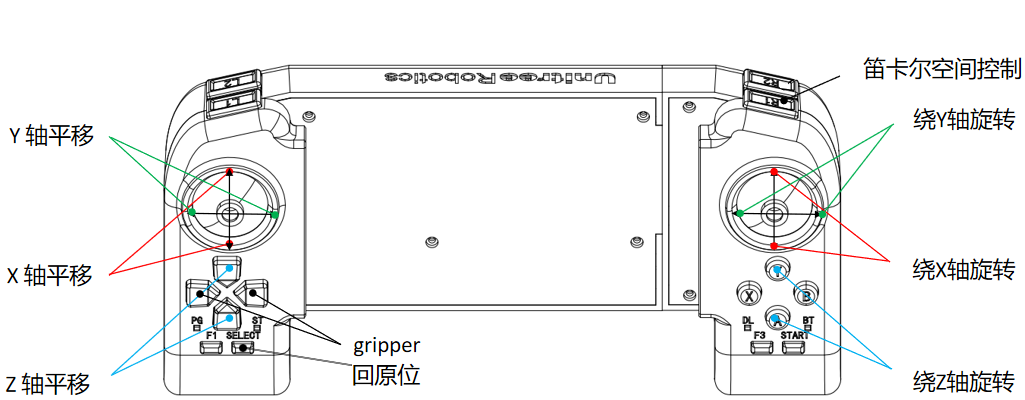
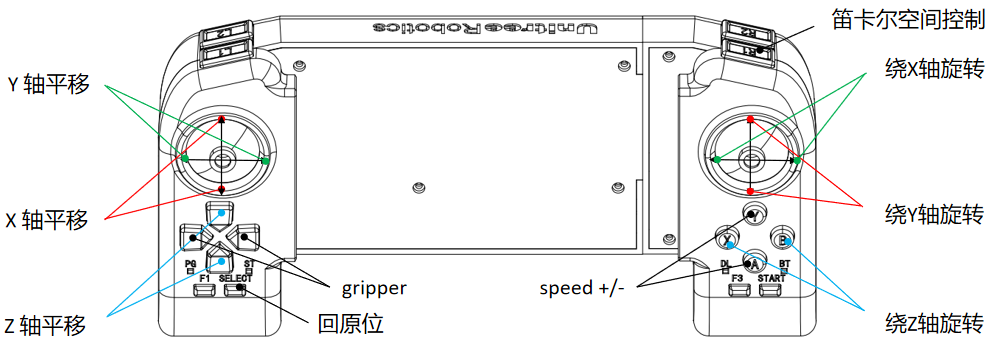
joystick control update

diff --git a/6-joystick controller/README.md b/6-joystick controller/README.md
@@ -20,11 +20,11 @@ sort: 6
 
 + B1
 
-当机器狗停止时，同时按住**L1+L2**键，切换到手柄控制机械臂，机器狗不再运动。此时按下**R2**键则进入关节空间控制模式，用手柄可控制单个关节转动，对应键位如下图所示。运动结束后，按下**SELECT**键可使机械臂回到原位。
+当机器狗停止时，同时按住**L1+L2**键，切换到手柄控制机械臂，机器狗不再运动。此时按下**R2**键则进入关节空间控制模式，用手柄可控制单个关节转动，对应键位如下图所示。运动结束后，如果想让机械臂保持当前姿态不动，可同时按下**L2+R2**，机械臂不再接收手柄的控制信息，此时按下**L1+L2**，可使机械臂保持当前姿态控制机器狗运动。机器狗停止后，同时按住**L1+L2**键，切换到手柄控制机械臂，按下**R2**可继续控制机械臂动作，运动结束后，按下**SELECT**键可使机械臂回到原位。
 
 + Aliengo
 
-运动模式启动后，**L2+A**锁定机器狗，此时按下**R2**键则进入关节空间控制模式，用手柄可控制单个关节转动，对应键位如下图所示。运动结束后，按下**SELECT**键可使机械臂回到原位。
+运动模式启动后，**L2+A**锁定机器狗，此时按下**R2**键则进入关节空间控制模式，用手柄可控制单个关节转动，对应键位如下图所示。运动结束后，按下**SELECT**键可使机械臂回到原位。手柄控制可参考B1。
 
 <center>
 <img src="../img/joystick_joint control.png" style="zoom:100%" alt=" 图片不见了。。。 "/>
@@ -40,11 +40,11 @@ padding: 1px;">关节空间手柄控制</div>
 
 + B1
 
-当机器狗停止时，同时按住**L1+L2**键，切换到要控制控制机械臂，机器狗不再运动。此时按下**R1**键则进入笛卡尔空间控制模式，或者当机械臂处于关节空间控制模式下，按下**R1**键位也可进入笛卡尔空间控制模式，对应键位如下图所示。运动结束后，按下**SELECT**键可使机械臂回到原位。
+当机器狗停止时，同时按住**L1+L2**键，切换到要控制控制机械臂，机器狗不再运动。此时按下**R1**键则进入笛卡尔空间控制模式，或者当机械臂处于关节空间控制模式下，按下**R1**键位也可进入笛卡尔空间控制模式，对应键位如下图所示。运动结束后，如果想让机械臂保持当前姿态不动，可同时按下**L2+R2**，机械臂不再接收手柄的控制信息，此时按下**L1+L2**，可使机械臂保持当前姿态控制机器狗运动。机器狗停止后，同时按住**L1+L2**键，切换到手柄控制机械臂，按下**R2**或**R1**可继续控制机械臂动作，运动结束后，按下**SELECT**键可使机械臂回到原位。
 
 + Aliengo
 
-运动模式启动后，**L2+A**锁定机器狗，此时按下**R1**键则进入笛卡尔空间控制模式，或者当机械臂处于关节空间控制模式下，按下**R1**键位也可进入笛卡尔空间控制模式，对应键位如下图所示。运动结束后，按下**SELECT**键可使机械臂回到原位。
+运动模式启动后，**L2+A**锁定机器狗，此时按下**R1**键则进入笛卡尔空间控制模式，或者当机械臂处于关节空间控制模式下，按下**R1**键位也可进入笛卡尔空间控制模式，对应键位如下图所示。运动结束后，按下**SELECT**键可使机械臂回到原位。手柄控制可参考B1。
 
 <center>
 <img src="../img/joystick_cartesian control.png" style="zoom:100%" alt=" 图片不见了。。。 "/>
@@ -80,13 +80,20 @@ padding: 1px;">机械臂工具坐标系</div>
 
 + B1
 
-由于机器狗和机械臂用同一个手柄进行控制，存在部分键位共用，因此，控制机器狗移动时，要同时按下**L1+L2**将机械臂切入阻尼状态,手柄可控制机器狗运动。判断机械臂是否在阻尼状态，可用手拖动机械臂，若能拖动则表明已切入阻尼。控制机械臂运动时，则需要机器狗处于停止状态。
+由于机器狗和机械臂用同一个手柄进行控制，存在部分键位共用，因此，控制机器狗移动时，要同时按下**R1+R2**将机械臂切入阻尼状态或者同时按下**L2+R2**机械臂姿态固定，手柄可控制机器狗运动。判断机械臂是否在阻尼状态，可用手拖动机械臂，若能拖动则表明已切入阻尼。控制机械臂运动时，则需要机器狗处于停止状态。
 
 + Aliengo
   
-由于机器狗和机械臂用同一个手柄进行控制，存在部分键位共用，因此，控制机器狗移动时，要同时按下**L1+L2**将机械臂切入阻尼状态。判断机械臂是否在阻尼状态，可用手拖动机械臂，若能拖动则表明已切入阻尼。控制机械臂运动时，则需要机器狗处于停止状态。
+由于机器狗和机械臂用同一个手柄进行控制，存在部分键位共用，因此，控制机器狗移动时，要同时按下**R1+R2**将机械臂切入阻尼状态或者同时按下**L2+R2**机械臂姿态固定。判断机械臂是否在阻尼状态，可用手拖动机械臂，若能拖动则表明已切入阻尼。控制机械臂运动时，则需要机器狗处于停止状态。
 
 ## 更新日志
+
++ **2023.1.5**
+
+1. 键位映射优化，使用更直观。
+2. 新增功能，关节/笛卡尔空间控制速度可调节。
+3. 机械臂切入阻尼状态的键位，用R1+R2键替代L1+L2键。
+4. 新增功能，可使机械臂保持一定姿态并控制机器狗运动。
 
 + **2022.10.11**
   
